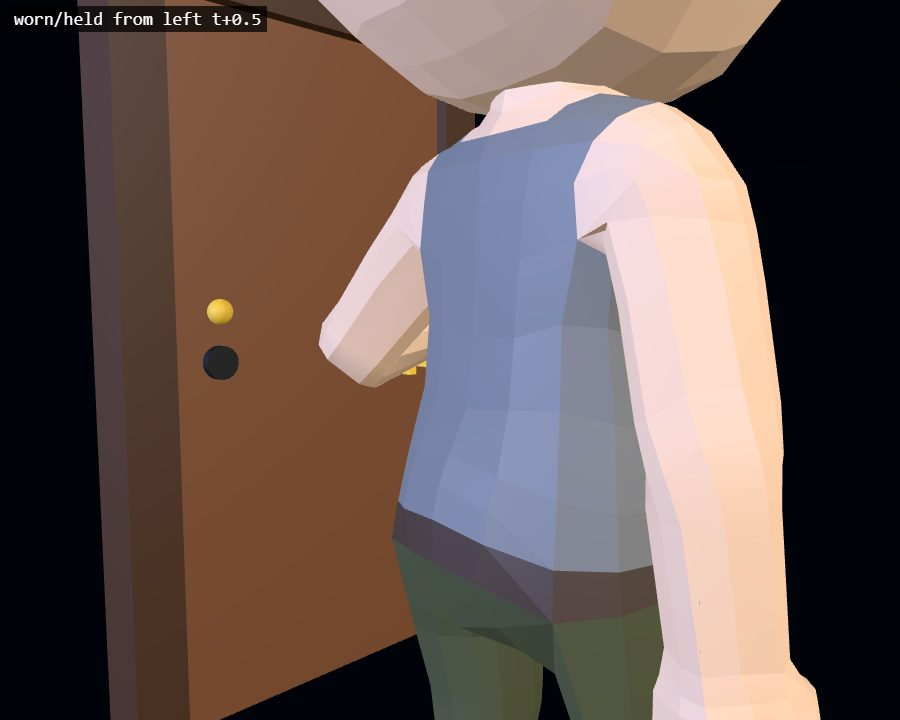
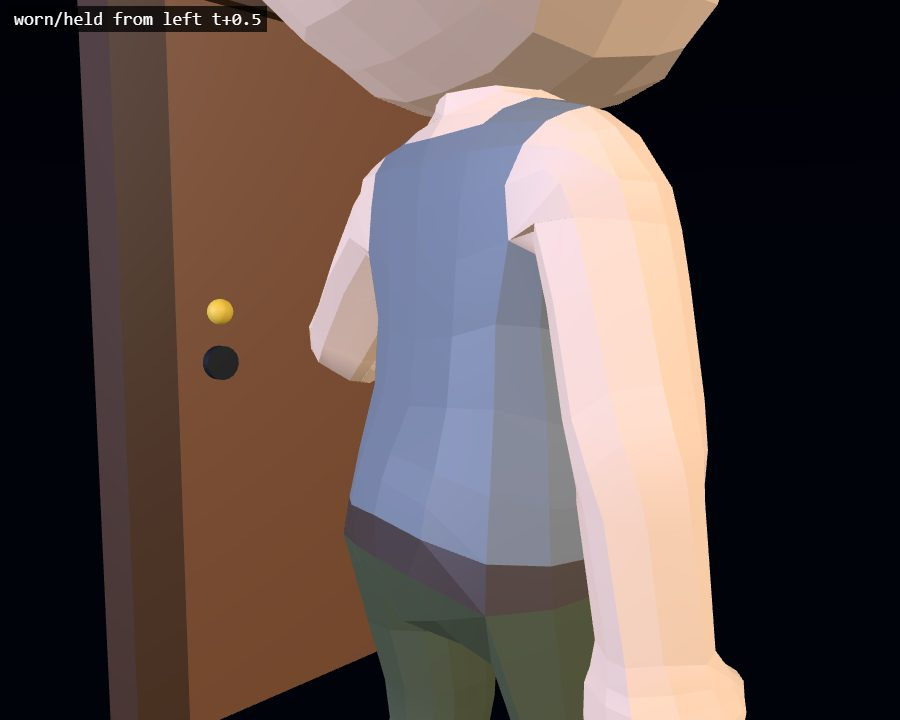
Qwen: 022-kagi-key round 2

diff --git a/src/effects/vignettes/q-key-door.js b/src/effects/vignettes/q-key-door.js
@@ -1,10 +1,11 @@
 // 鍵 (plan 022, card w1260490): at night a man stands at his locked front door. Loop 8 s: 0-1.0 Idle, the door shut,
 // he holds his gold key up in front of him, the blade pointing at the door; it glints once at 0.5; 1.0-1.85 he
 // brings the key to the lock, the blade lining up and sliding straight in (the last 0.1u of the move along the
-// door's back direction), the tip 0.01u inside the door's face by 1.85; 1.85-2.3 he turns it a quarter turn (his hand
-// turns with it, the palm on the bow's flat side every frame); at 2.3 a click (a small yellow star at the lock);
-// 2.3-3.3 the door swings open 75° about its hinge onto the warm lit room, the key drawn out at 2.4 (0.1u back along
-// the blade, un-turned) and his hand lowered to about (0.70, 0.40, 0.12) by 3.0; 3.3-5.4 he looks at the open door,
+// door's back direction), the tip 0.01u inside the door's face by 1.85; 2.0-2.45 he turns it about 80° about its blade
+// (the ring sweeping round in the lock, his hand above the bow, the palm down every frame); at 2.45 a click (a small
+// yellow star at the lock); 2.45-3.0 he holds the turned key in the lock; 3.0-3.7 the door swings open 75° about its hinge onto the warm lit
+// room, the key drawn out at 3.0 (0.1u back along the blade, un-turned by 3.3) and his hand lowered to about
+// (0.70, 0.40, 0.12) by 3.55; 3.3-5.4 he looks at the open door,
 // pleased, and nods, the key in his hand; 5.4-6.4 the door swings shut; 6.4-8.0 Idle, the key back up in front of
 // him, so the loop ends where it began. He grips the key by its bow (palm against the ring's flat side, never the
 // fist round it); the key's pivot is its blade's tip.
@@ -66,12 +67,12 @@ function keyDoor(ctx, spec, stage) {
   const glint = burst(u, { s: 0.08, n: 5, color: 0xffffff });                   // the glint at 0.5
   const click = burst(u, { s: 0.12, n: 6, color: 0xffe060 });                   // the click at 2.3
   group.add(man.group, assembly, key, glint, click);
-  man.group.position.set(X(0.44), floor, 0.02 * u);
+  man.group.position.set(X(0.45), floor, -0.02 * u);
   man.group.rotation.y = 0.6;
   // the key's frame: blade along the door's back direction, ring in a vertical plane (its normal n1); the places
   // its bow visits (group space), from the lock's position on the door's face
   // the key's frame: blade along the door's front direction, ring in a vertical plane (its flat side toward the man)
-  const n1 = W2.copy(f).cross(UP);                                             // the ring's flat side, toward the man
+  const n1 = W2.copy(f).cross(UP);                                             // the ring's normal at rest, horizontal
   const qBase = new THREE.Quaternion().setFromRotationMatrix(new THREE.Matrix4().makeBasis(f, UP, n1));
   const lockW = new THREE.Vector3(-0.15 * u, 0.44 * u, 0.026 * u).applyMatrix4(R).add(assembly.position);
   const bowLock = lockW.clone().addScaledVector(f, 0.151 * u);                   // the in-lock bow, door shut
@@ -84,28 +85,29 @@ function keyDoor(ctx, spec, stage) {
     group,
     step(t) {
       const A = acts(ctx, t, loop), pre = A.u < 0, v = pre ? -1 : A.v;
-      const T = timeline(v, { approach: [1.0, 0.6], slide: [1.6, 0.25], turn: [1.85, 0.45], open: [2.3, 1.0],
-        pull: [2.4, 0.25], unturn: [2.4, 0.3], lower: [2.65, 0.35], close: [5.4, 1.0], raise: [6.4, 0.6] });
-      const ws = group.getWorldScale(W).y, r = 0.045 * u * ws;   // the ring's radius: the palm pinches the ring's outer band, the ring never in the fist
+      const T = timeline(v, { approach: [1.0, 0.6], slide: [1.6, 0.25], turn: [2.0, 0.45], open: [3.0, 0.7],
+        pull: [3.0, 0.3], unturn: [3.0, 0.3], lower: [3.15, 0.4], close: [5.4, 1.0], raise: [6.4, 0.6] });
+      // the palm pinches the ring's outer band from above: the radius shrinks as the ring tips toward horizontal,
+      // so the fist stays clear of the ring's band at every angle and the hand stays on the key
+      const ws = group.getWorldScale(W).y, amt = Math.abs(T.turn - T.unturn), r = (0.045 - 0.018 * amt) * u * ws;
       man.pose('Idle', t);
-      man.group.position.set(X(0.44), floor, 0.02 * u);
+      man.group.position.set(X(0.45), floor, -0.02 * u);
       man.group.rotation.y = 0.6;
       const look = between(v, 3.3, 3.6) * (1 - between(v, 5.1, 5.4));           // he looks at the open door
       man.turn('Head', 0, 1.0 * look, 0);
-      man.nod(0.8 * between(v, 3.4, 3.7) * (1 - between(v, 5.0, 5.3)), v);      // pleased
+      man.nod(0.8 * between(v, 4.0, 4.3) * (1 - between(v, 5.0, 5.3)), v);      // pleased
       // the door swings open 75° about its hinge, inward, away from the learner, and back
       hinge.rotation.y = -1.309 * (T.open - T.close);
-      // the key: held up -> to the lock, sliding straight in -> turned a quarter turn -> drawn out, un-turned,
-      // lowered -> up again (it leaves the lock at 2.4, as the door begins to swing)
-      const th = -Math.PI / 2 * (T.turn - T.unturn);                            // a quarter turn; the hand swings up, within his reach
+      // the key: held up -> to the lock, sliding straight in -> turned a quarter turn, held in the lock -> drawn
+      // out, un-turned, lowered -> up again (it leaves the lock at 3.0, as the door begins to swing)
+      const th = -1.4 * (T.turn - T.unturn);                                   // an 80° turn about the blade (in the lock)
       BOW.copy(P0).lerp(Palign, T.approach).lerp(bowLock, T.slide).lerp(Pout, T.pull).lerp(P3, T.lower).lerp(P0, T.raise);
       key.position.copy(BOW).addScaledVector(f, -0.165 * u);                    // the pivot is the blade's tip
-      key.quaternion.copy(qBase).multiply(Q.setFromAxisAngle(f, th));
-      // the palm under the bow (pinching the ring's outer band), turning with the key
-      const tw = W2.set(0, -1, 0).applyAxisAngle(f, th);
-      man.grip('L', group.localToWorld(BOW.clone()), tw, r, 1, { out: 0.6, down: 0.6 });
+      key.quaternion.copy(Q.setFromAxisAngle(f, th)).multiply(qBase);           // the world turn about the blade first, then the key's frame
+      // the palm above the bow (pinching the ring's outer band from above), steady through the turn
+      man.grip('L', group.localToWorld(BOW.clone()), W2.set(0, -1, 0), r, 1, { out: 0.6, down: 0.6 });
       pop(glint, pre ? 0 : bump(v, 0.35, 0.5), BOW.x, BOW.y + 0.03 * u, BOW.z);
-      pop(click, pre ? 0 : bump(v, 2.3, 0.4), lockW.x - 0.014 * u, lockW.y, lockW.z + 0.014 * u);   // in front of the lock
+      pop(click, pre ? 0 : bump(v, 2.45, 0.4), lockW.x - 0.014 * u, lockW.y, lockW.z + 0.014 * u);   // in front of the lock
     },
   };
 }
